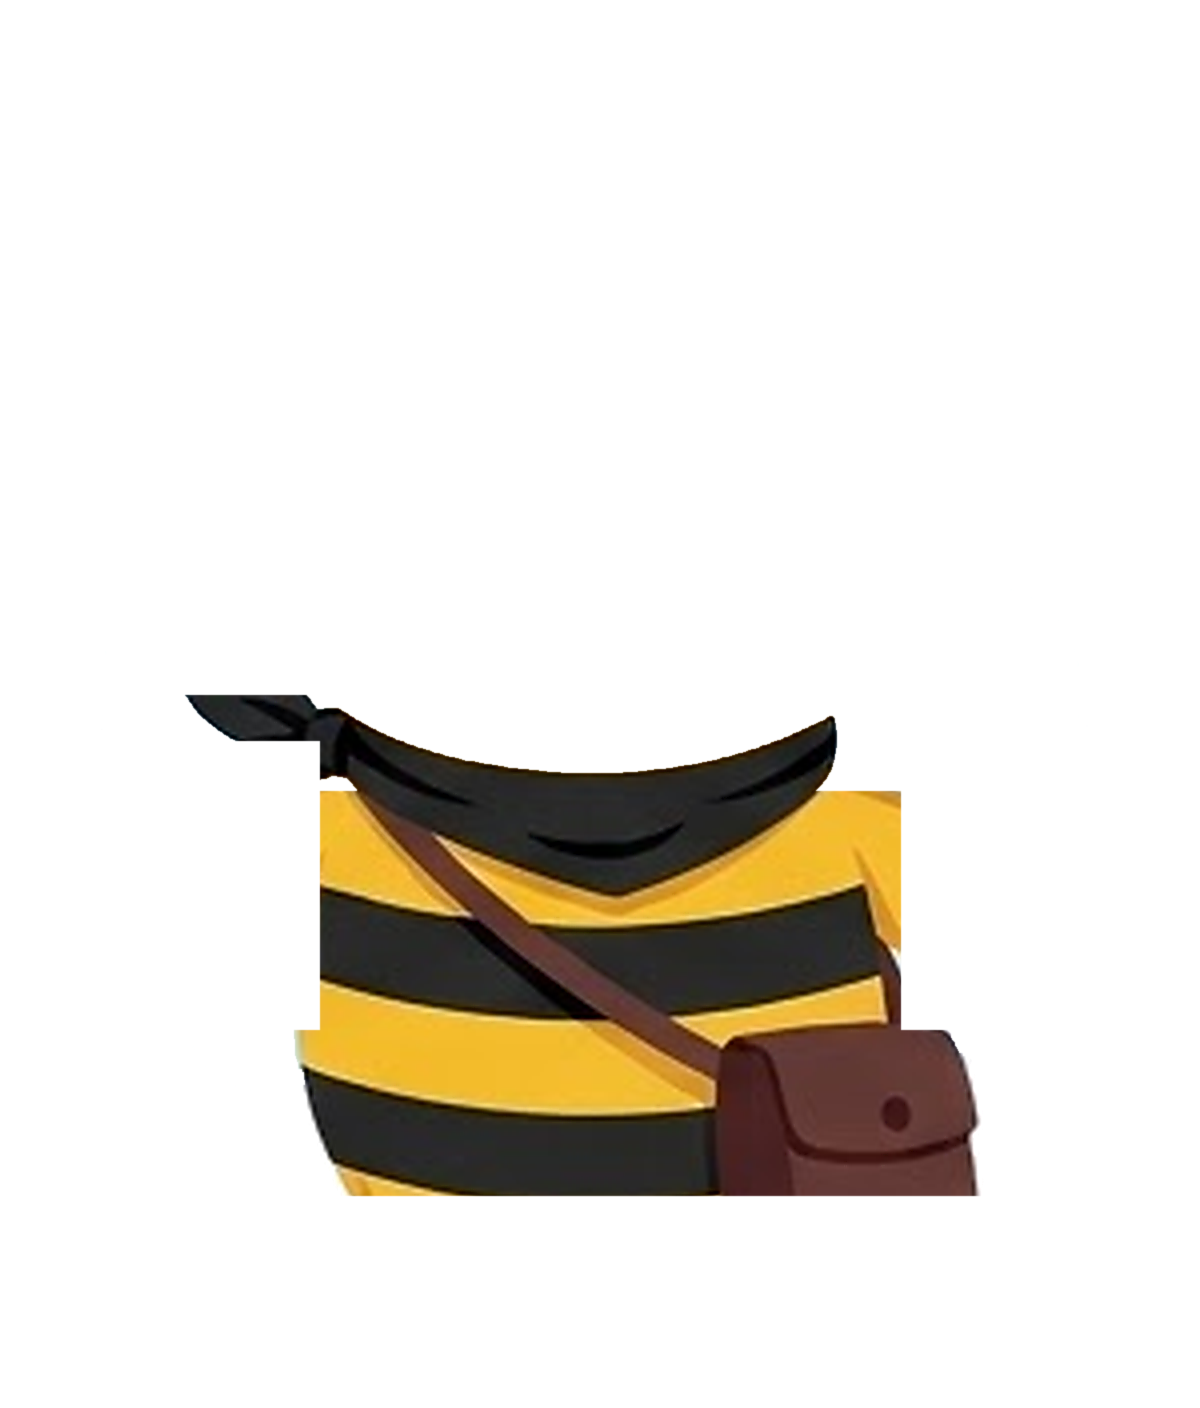
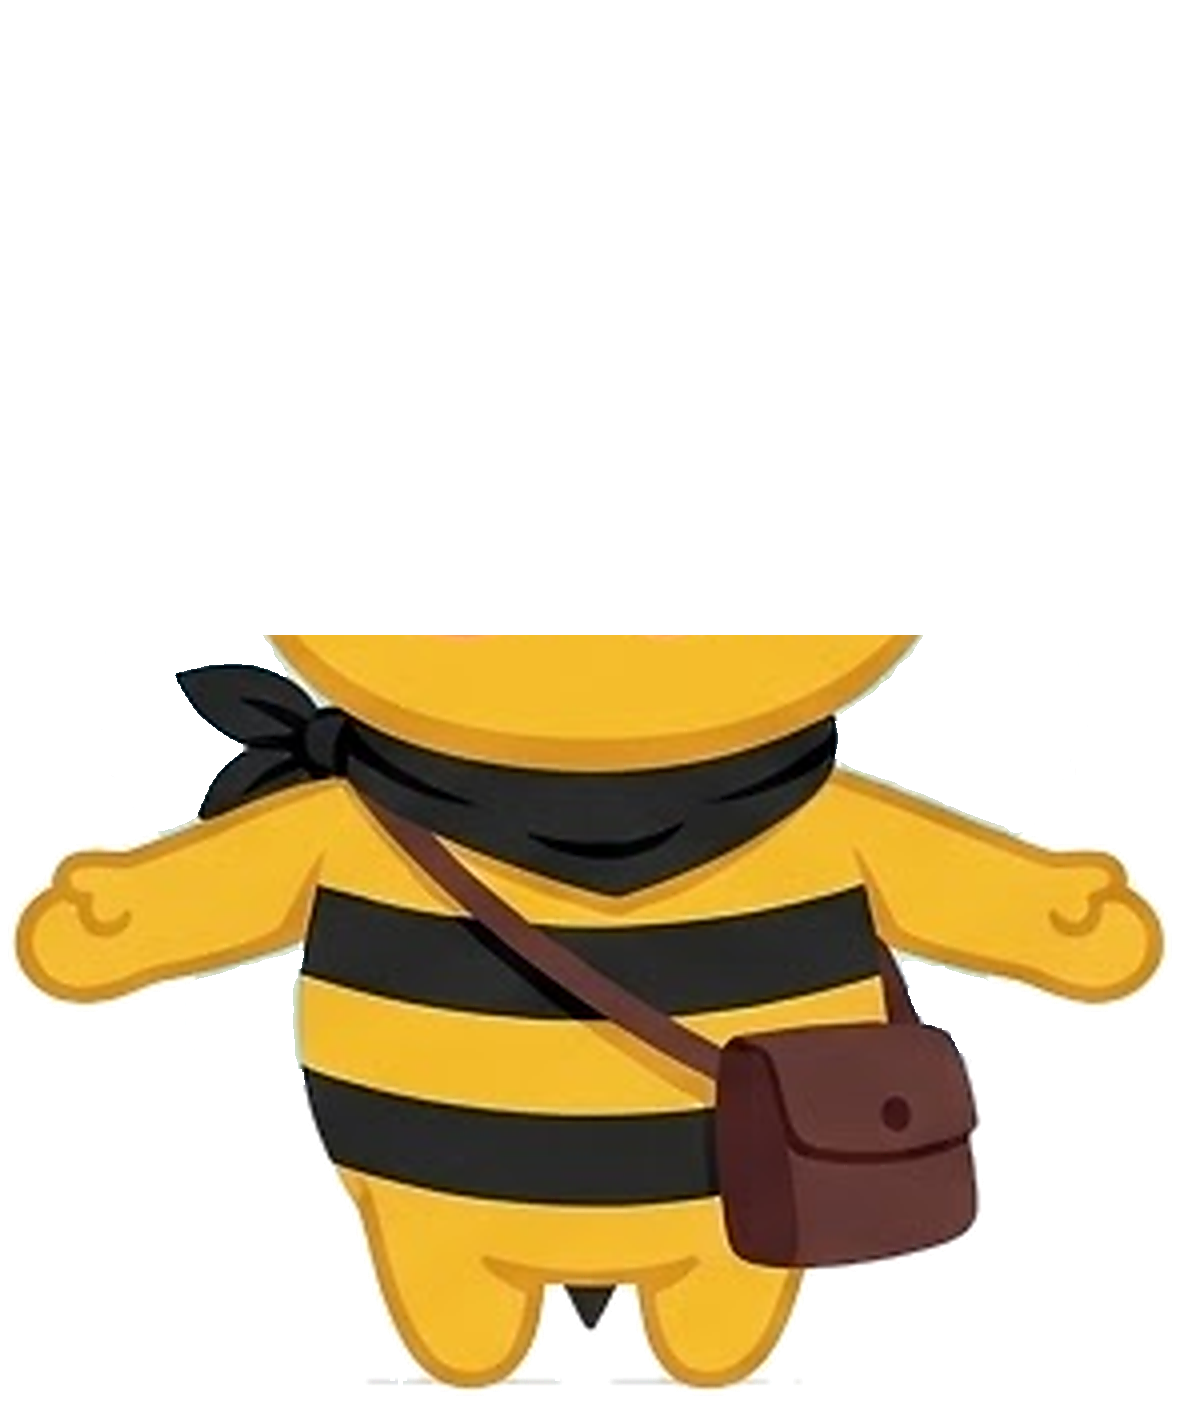
fix(mascot): clean stray bandana/collar pixels from head and include complete body with arms and legs

Changed region(s): [[0.0, 0.4375, 0.7708, 0.75], [0.2775, 0.8438, 0.8325, 1.0], [0.74, 0.5625, 0.9867, 0.75]]

diff --git a/src/components/mascot/otbee/Otbee4KPuppet.tsx b/src/components/mascot/otbee/Otbee4KPuppet.tsx
@@ -284,9 +284,11 @@ export const Otbee4KPuppet = forwardRef<Otbee4KPuppetHandle, Otbee4KPuppetProps>
 
         // Wings: Flap flutter and unfold
         if (wingsRef.current) {
-          if (eWings <= 0.005) {
+          if (eWings <= 0.01) {
             wingsRef.current.style.opacity = '0'
+            wingsRef.current.style.display = 'none'
           } else {
+            wingsRef.current.style.display = 'block'
             wingsRef.current.style.opacity = `${eWings.toFixed(3)}`
             const wingFlap = about(
               centre.x,
@@ -297,13 +299,14 @@ export const Otbee4KPuppet = forwardRef<Otbee4KPuppetHandle, Otbee4KPuppetProps>
           }
         }
 
-        // Body: Complete seamless body emerging from under chin/neck (NO sliced gaps!)
+        // Body: Complete seamless body with arms and legs emerging from under chin/neck
         if (bodyRef.current) {
-          if (eBody <= 0.005) {
+          if (eBody <= 0.01) {
             bodyRef.current.style.opacity = '0'
+            bodyRef.current.style.display = 'none'
           } else {
+            bodyRef.current.style.display = 'block'
             bodyRef.current.style.opacity = `${eBody.toFixed(3)}`
-            // Scale and slide down from neck
             const slideY = (1 - eBody) * -110
             bodyRef.current.style.transform = `translateY(${slideY.toFixed(1)}px) ${about(BD.neck[0], BD.neck[1], `scale(${(0.55 + 0.45 * eBody).toFixed(4)}, ${eBody.toFixed(4)})`)}`
           }
@@ -430,12 +433,12 @@ export const Otbee4KPuppet = forwardRef<Otbee4KPuppetHandle, Otbee4KPuppetProps>
         >
           <div ref={wholeRigRef} style={{ position: 'absolute', inset: 0, transformOrigin: '0 0' }}>
             {/* Stage 2: Wings (Behind figure, unfold & flap) */}
-            <div ref={wingsRef} style={{ ...layerStyle, opacity: 0 }}>
+            <div ref={wingsRef} style={{ ...layerStyle, opacity: growthProgress > 0.5 ? 1 : 0, display: growthProgress > 0.5 ? 'block' : 'none' }}>
               {layerImg('wings')}
             </div>
 
-            {/* Stage 1: Seamless Complete Body (Torso, Scarf, Satchel, Legs all in 1 connected piece - NO sliced gaps!) */}
-            <div ref={bodyRef} style={{ ...layerStyle, opacity: 0 }}>
+            {/* Stage 1: Seamless Complete Body with Arms and Legs */}
+            <div ref={bodyRef} style={{ ...layerStyle, opacity: growthProgress > 0.05 ? 1 : 0, display: growthProgress > 0.05 ? 'block' : 'none' }}>
               {layerImg('body')}
             </div>
 
